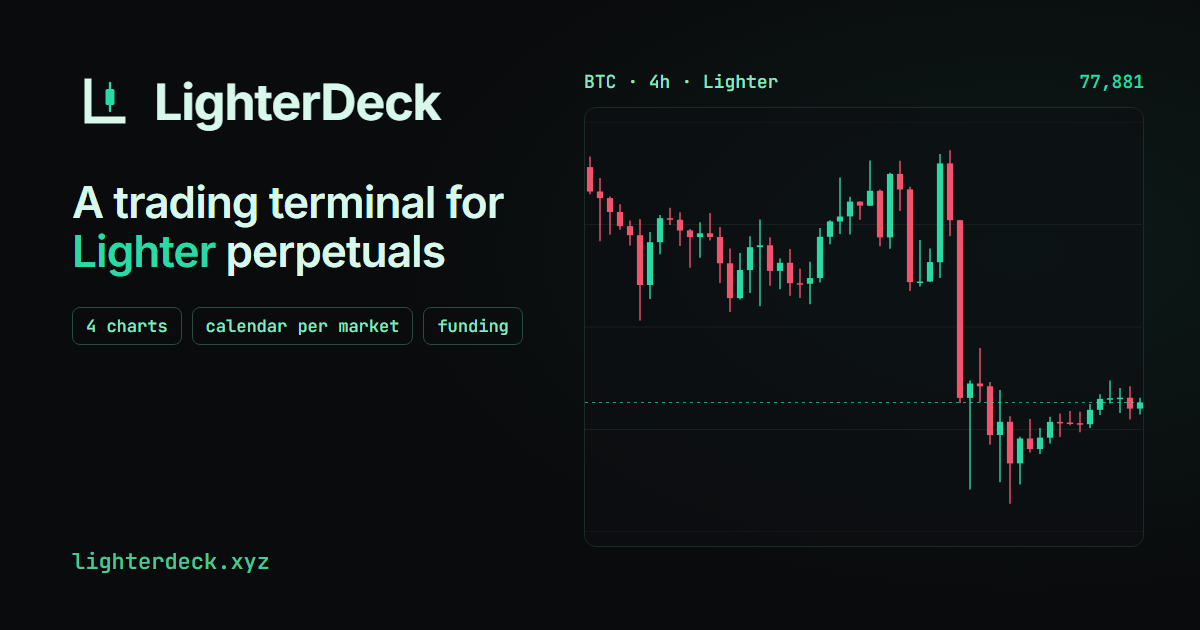
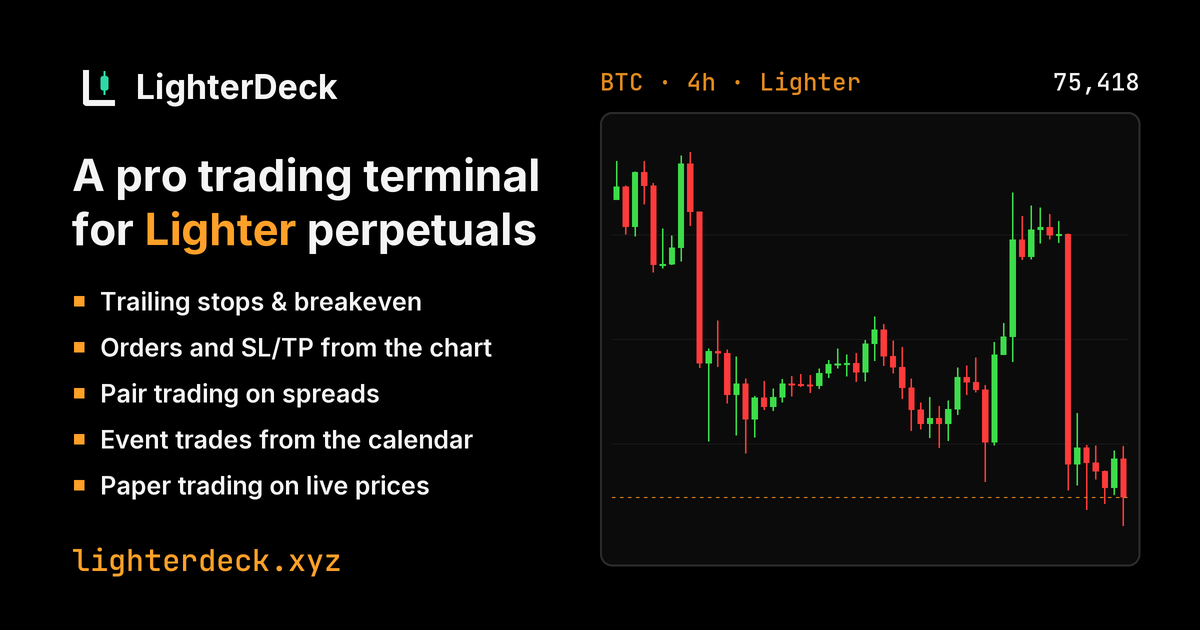
Link previews in Ambra, showing what LighterDeck does best
Both cards (the site's og.png and each market's /og/WTI.png) are drawn by
backend/og.py in the Ambra colours: black, white values, orange labels,
bright green and red candles. The site's card lists LighterDeck's strengths
in large type (trailing stops & breakeven, orders and SL/TP from the chart,
pair trading on spreads, event trades, paper trading on live prices) instead
of "4 charts · calendar per market · funding"; the page description says
the same. Market cards have bigger name, price and address. The image URLs
carry ?v=2 so social sites fetch the new ones; tools/make_og.py now renders
og.png with the same code, no browser needed.

diff --git a/frontend/index.html b/frontend/index.html
@@ -6,21 +6,21 @@
 <meta name="viewport" content="width=device-width, initial-scale=1">
 <title>LighterDeck</title>
 <!-- link previews (Discord, Telegram, X, WhatsApp…) -->
-<meta name="description" content="Every Lighter market, with the events that move it. Multi-chart, funding and a calendar per market. Free and open source.">
+<meta name="description" content="A pro trading terminal for Lighter perpetuals: trailing stops and breakeven, orders from the chart, pair trading on spreads, event trades and paper trading on live prices. Free and open source.">
 <meta name="theme-color" content="#000000">
 <meta property="og:type" content="website">
 <meta property="og:site_name" content="LighterDeck">
 <meta property="og:url" content="https://lighterdeck.xyz/">
 <meta property="og:title" content="LighterDeck · a trading terminal for Lighter">
-<meta property="og:description" content="Every Lighter market, with the events that move it. Multi-chart, funding and a calendar per market. Free and open source.">
-<meta property="og:image" content="https://lighterdeck.xyz/og.png">
+<meta property="og:description" content="A pro trading terminal for Lighter perpetuals: trailing stops and breakeven, orders from the chart, pair trading on spreads, event trades and paper trading on live prices. Free and open source.">
+<meta property="og:image" content="https://lighterdeck.xyz/og.png?v=2">
 <meta property="og:image:width" content="1200">
 <meta property="og:image:height" content="630">
-<meta property="og:image:alt" content="LighterDeck: a trading terminal for Lighter perpetuals, with a BTC chart">
+<meta property="og:image:alt" content="LighterDeck: a pro trading terminal for Lighter perpetuals, with trailing stops, chart orders, spreads, event trades and paper trading, next to a BTC chart">
 <meta name="twitter:card" content="summary_large_image">
 <meta name="twitter:title" content="LighterDeck · a trading terminal for Lighter">
-<meta name="twitter:description" content="Every Lighter market, with the events that move it. Multi-chart, funding and a calendar per market. Free and open source.">
-<meta name="twitter:image" content="https://lighterdeck.xyz/og.png">
+<meta name="twitter:description" content="A pro trading terminal for Lighter perpetuals: trailing stops and breakeven, orders from the chart, pair trading on spreads, event trades and paper trading on live prices. Free and open source.">
+<meta name="twitter:image" content="https://lighterdeck.xyz/og.png?v=2">
 <link rel="preconnect" href="https://fonts.googleapis.com">
 <link rel="preconnect" href="https://fonts.gstatic.com" crossorigin>
 <link href="https://fonts.googleapis.com/css2?family=Inter:wght@400;500;600&family=JetBrains+Mono:wght@400;500&display=swap" rel="stylesheet">

diff --git a/backend/og.py b/backend/og.py
@@ -1,6 +1,6 @@
-"""Link preview card for one market (1200x630 PNG), in the Phosphor colours of the site's own card:
-the market's name, price and 24h change on the left, its last 56 four-hour candles on the right.
-Drawn at twice the size and scaled down, so lines and text come out smooth."""
+"""Link preview cards (1200x630 PNG) in the Ambra colours: the site's own card (tools/make_og.py writes it to
+frontend/og.png) and one per market (/og/WTI.png): name, price and 24h change on the left, its last 56
+four-hour candles on the right. Drawn at twice the size and scaled down, so lines and text come out smooth."""
 from io import BytesIO
 from pathlib import Path
 
@@ -9,15 +9,25 @@ from PIL import Image, ImageDraw, ImageFont
 FONTS = Path(__file__).resolve().parent / "fonts"  # Inter and JetBrains Mono, SIL Open Font License
 S = 2
 W, H = 1200, 630
-BG = (10, 11, 13)
-PANEL = (14, 16, 18)
-TEXT = (216, 248, 235)
-TEXT2 = (135, 232, 193)
-MUTED = (77, 199, 150)
-LINE = (27, 42, 36)
-GRID = (22, 33, 28)
-GREEN = (43, 217, 164)
-RED = (242, 84, 109)
+BG = (0, 0, 0)
+PANEL = (11, 11, 11)
+TEXT = (244, 244, 244)
+ORANGE = (255, 160, 40)
+MUTED = (224, 138, 31)
+LINE = (44, 44, 44)
+GRID = (24, 24, 24)
+GREEN = (61, 220, 74)
+RED = (255, 59, 59)
+LOGO = (43, 217, 164)  # the logo's own green, as in frontend/logo.svg
+
+# what sets LighterDeck apart, for the site's card
+STRENGTHS = [
+    "Trailing stops & breakeven",
+    "Orders and SL/TP from the chart",
+    "Pair trading on spreads",
+    "Event trades from the calendar",
+    "Paper trading on live prices",
+]
 
 
 def _font(name, size):
@@ -31,55 +41,89 @@ def _fit(draw, text, name, size, max_width):
     return _font(name, size)
 
 
-def card(symbol, name, price, change_pct, bars, url):
-    img = Image.new("RGB", (W * S, H * S), BG)
-    d = ImageDraw.Draw(img)
-    p = lambda x, y: (x * S, y * S)
+def _p(x, y):
+    return x * S, y * S
 
-    # logo and brand
-    ox, oy, k = 72, 64, 0.8
-    L = lambda x, y: p(ox + x * k, oy + y * k)
+
+def _brand(d, size=34):
+    ox, oy, k = 72, 60, 0.85
+    L = lambda x, y: _p(ox + x * k, oy + y * k)
     d.line([L(16, 12), L(16, 50), L(50, 50)], fill=TEXT, width=round(7 * k * S), joint="curve")
-    d.line([L(38, 13), L(38, 41)], fill=GREEN, width=round(2.4 * k * S))
-    d.rounded_rectangle([L(33.5, 19), L(42.5, 35)], radius=2 * S, fill=GREEN)
-    d.text(p(132, 70), "LighterDeck", font=_font("inter-700.ttf", 30), fill=TEXT)
+    d.line([L(38, 13), L(38, 41)], fill=LOGO, width=round(2.4 * k * S))
+    d.rounded_rectangle([L(33.5, 19), L(42.5, 35)], radius=2 * S, fill=LOGO)
+    d.text(_p(136, 66), "LighterDeck", font=_font("inter-700.ttf", size), fill=TEXT)
 
-    # market, price, change
-    d.text(p(72, 170), symbol, font=_fit(d, symbol, "inter-700.ttf", 100, 470), fill=TEXT)
-    if name and name != symbol:
-        d.text(p(74, 292), name[:34], font=_fit(d, name[:34], "inter-600.ttf", 26, 470), fill=MUTED)
-    if price:
-        d.text(p(72, 360), price, font=_fit(d, price, "jetbrains-mono-500.ttf", 56, 470), fill=TEXT)
-    if change_pct is not None:
-        d.text(p(74, 436), f"{'+' if change_pct >= 0 else '−'}{abs(change_pct):.2f}%  24h",
-               font=_font("jetbrains-mono-500.ttf", 28), fill=GREEN if change_pct >= 0 else RED)
-    d.text(p(72, 552), url, font=_font("jetbrains-mono-500.ttf", 22), fill=MUTED)
 
-    # chart
-    fx0, fy0, fx1, fy1 = 600, 108, 1140, 566
-    d.text(p(fx0, 70), f"{symbol} · 4h · Lighter", font=_font("jetbrains-mono-500.ttf", 18), fill=TEXT2)
-    d.rounded_rectangle([p(fx0, fy0), p(fx1, fy1)], radius=12 * S, fill=PANEL, outline=LINE, width=2 * S)
-    if len(bars) >= 2:
-        cx0, cy0, cx1, cy1 = fx0 + 12, fy0 + 18, fx1 - 12, fy1 - 18
-        lo, hi = min(b["low"] for b in bars), max(b["high"] for b in bars)
-        pad = (hi - lo) * 0.06 or hi * 0.01 or 1
-        lo, hi = lo - pad, hi + pad
-        y = lambda v: cy1 - (v - lo) / (hi - lo) * (cy1 - cy0)
-        for i in range(1, 4):
-            gy = cy0 + (cy1 - cy0) * i / 4
-            d.line([p(cx0, gy), p(cx1, gy)], fill=GRID, width=S)
-        step = (cx1 - cx0) / len(bars)
-        body = max(3.0, step * 0.62)
-        for i, b in enumerate(bars):
-            col = GREEN if b["close"] >= b["open"] else RED
-            x = cx0 + i * step + step / 2
-            d.line([p(x, y(b["high"])), p(x, y(b["low"]))], fill=col, width=max(2, round(1.4 * S)))
-            top, bot = y(max(b["open"], b["close"])), y(min(b["open"], b["close"]))
-            d.rectangle([p(x - body / 2, top), p(x + body / 2, max(bot, top + 1.5))], fill=col)
-        last = y(bars[-1]["close"])
-        for gx in range(int(cx0), int(cx1), 8):  # dashed last-price line
-            d.line([p(gx, last), p(min(gx + 3, cx1), last)], fill=MUTED, width=S)
+def _chart(d, symbol, bars, right_label=""):
+    fx0, fy0, fx1, fy1 = 600, 112, 1140, 566
+    tag = _font("jetbrains-mono-500.ttf", 24)
+    d.text(_p(fx0, 66), f"{symbol} · 4h · Lighter", font=tag, fill=MUTED)
+    if right_label:
+        d.text(_p(fx1, 66), right_label, font=tag, fill=TEXT, anchor="ra")
+    d.rounded_rectangle([_p(fx0, fy0), _p(fx1, fy1)], radius=12 * S, fill=PANEL, outline=LINE, width=2 * S)
+    if len(bars) < 2:
+        return
+    cx0, cy0, cx1, cy1 = fx0 + 12, fy0 + 18, fx1 - 12, fy1 - 18
+    lo, hi = min(b["low"] for b in bars), max(b["high"] for b in bars)
+    pad = (hi - lo) * 0.06 or hi * 0.01 or 1
+    lo, hi = lo - pad, hi + pad
+    y = lambda v: cy1 - (v - lo) / (hi - lo) * (cy1 - cy0)
+    for i in range(1, 4):
+        gy = cy0 + (cy1 - cy0) * i / 4
+        d.line([_p(cx0, gy), _p(cx1, gy)], fill=GRID, width=S)
+    step = (cx1 - cx0) / len(bars)
+    body = max(3.0, step * 0.62)
+    for i, b in enumerate(bars):
+        col = GREEN if b["close"] >= b["open"] else RED
+        x = cx0 + i * step + step / 2
+        d.line([_p(x, y(b["high"])), _p(x, y(b["low"]))], fill=col, width=max(2, round(1.4 * S)))
+        top, bot = y(max(b["open"], b["close"])), y(min(b["open"], b["close"]))
+        d.rectangle([_p(x - body / 2, top), _p(x + body / 2, max(bot, top + 1.5))], fill=col)
+    last = y(bars[-1]["close"])
+    for gx in range(int(cx0), int(cx1), 8):  # dashed last-price line
+        d.line([_p(gx, last), _p(min(gx + 3, cx1), last)], fill=MUTED, width=S)
 
+
+def _png(img):
     out = BytesIO()
     img.resize((W, H), Image.LANCZOS).save(out, "PNG", optimize=True)
     return out.getvalue()
+
+
+def card(symbol, name, price, change_pct, bars, url):
+    """One market's card."""
+    img = Image.new("RGB", (W * S, H * S), BG)
+    d = ImageDraw.Draw(img)
+    _brand(d)
+    d.text(_p(72, 160), symbol, font=_fit(d, symbol, "inter-700.ttf", 104, 470), fill=TEXT)
+    if name and name != symbol:
+        d.text(_p(74, 290), name[:34], font=_fit(d, name[:34], "inter-600.ttf", 32, 470), fill=MUTED)
+    if price:
+        d.text(_p(72, 352), price, font=_fit(d, price, "jetbrains-mono-500.ttf", 64, 470), fill=TEXT)
+    if change_pct is not None:
+        d.text(_p(74, 438), f"{'+' if change_pct >= 0 else '−'}{abs(change_pct):.2f}%  24h",
+               font=_font("jetbrains-mono-500.ttf", 34), fill=GREEN if change_pct >= 0 else RED)
+    d.text(_p(72, 540), url, font=_fit(d, url, "jetbrains-mono-500.ttf", 30, 480), fill=ORANGE)
+    _chart(d, symbol, bars)
+    return _png(img)
+
+
+def site_card(bars, last_label):
+    """The site's card: what LighterDeck does best, next to a live BTC chart."""
+    img = Image.new("RGB", (W * S, H * S), BG)
+    d = ImageDraw.Draw(img)
+    _brand(d)
+    head = _font("inter-700.ttf", 44)
+    d.text(_p(72, 148), "A pro trading terminal", font=_fit(d, "A pro trading terminal", "inter-700.ttf", 44, 490), fill=TEXT)
+    x = 72 * S
+    for part, col in (("for ", TEXT), ("Lighter", ORANGE), (" perpetuals", TEXT)):
+        d.text((x, 202 * S), part, font=head, fill=col)
+        x += d.textlength(part, font=head)
+    item = _font("inter-600.ttf", 25)
+    for i, text in enumerate(STRENGTHS):
+        yy = 286 + i * 46
+        d.rectangle([_p(74, yy + 10), _p(84, yy + 20)], fill=ORANGE)
+        d.text(_p(100, yy), text, font=item, fill=TEXT)
+    d.text(_p(72, 540), "lighterdeck.xyz", font=_font("jetbrains-mono-500.ttf", 30), fill=ORANGE)
+    _chart(d, "BTC", bars, last_label)
+    return _png(img)

diff --git a/tools/make_og.py b/tools/make_og.py
@@ -1,9 +1,7 @@
-"""Link preview card (1200x630) for lighterdeck.xyz: Phosphor colours, real BTC 4h candles from Lighter.
+"""The site's link preview card (frontend/og.png, 1200x630) with real BTC 4h candles from Lighter.
 
-Writes an HTML card; render it to frontend/og.png with a headless browser, e.g.
-  python tools/make_og.py card.html
-  msedge --headless=new --hide-scrollbars --force-device-scale-factor=1 --window-size=1200,630
-         --virtual-time-budget=5000 --screenshot=frontend/og.png file:///.../card.html
+Drawn by backend/og.py, the same code and Ambra colours as each market's card:
+  python tools/make_og.py
 """
 import json
 import sys
@@ -11,67 +9,15 @@ import time
 import urllib.request
 from pathlib import Path
 
-out = Path(sys.argv[1])
+ROOT = Path(__file__).resolve().parent.parent
+sys.path.insert(0, str(ROOT / "backend"))
+import og  # noqa: E402
+
 now = int(time.time())
 url = (f"https://mainnet.zklighter.elliot.ai/api/v1/candles?market_id=1&resolution=4h"
        f"&start_timestamp={now - 4 * 3600 * 70}&end_timestamp={now}&count_back=70")
 rows = json.load(urllib.request.urlopen(url, timeout=20))["c"][-56:]
-bars = [(float(c["o"]), float(c["h"]), float(c["l"]), float(c["c"])) for c in rows]
-
-W, H = 560, 410          # chart area
-lo, hi = min(b[2] for b in bars), max(b[1] for b in bars)
-pad = (hi - lo) * 0.08
-lo, hi = lo - pad, hi + pad
-y = lambda p: H - (p - lo) / (hi - lo) * H
-step = W / len(bars)
-body = max(3.0, step * 0.62)
-svg = []
-for i in range(5):  # faint grid
-    gy = H * i / 4
-    svg.append(f'<line x1="0" x2="{W}" y1="{gy:.1f}" y2="{gy:.1f}" stroke="#16211c" stroke-width="1"/>')
-for i, (o, h, l, c) in enumerate(bars):
-    x = i * step + step / 2
-    col = "#2bd9a4" if c >= o else "#f2546d"
-    top, bot = y(max(o, c)), y(min(o, c))
-    svg.append(f'<line x1="{x:.1f}" x2="{x:.1f}" y1="{y(h):.1f}" y2="{y(l):.1f}" stroke="{col}" stroke-width="1.4"/>')
-    svg.append(f'<rect x="{x - body / 2:.1f}" y="{top:.1f}" width="{body:.1f}" height="{max(1.5, bot - top):.1f}" fill="{col}"/>')
-last = bars[-1][3]
-svg.append(f'<line x1="0" x2="{W}" y1="{y(last):.1f}" y2="{y(last):.1f}" stroke="#2bd9a4" stroke-width="1" stroke-dasharray="3 4" opacity=".7"/>')
-chart = f'<svg width="{W}" height="{H}" viewBox="0 0 {W} {H}">{"".join(svg)}</svg>'
-
-html = f"""<!doctype html><html><head><meta charset="utf-8">
-<link href="https://fonts.googleapis.com/css2?family=Inter:wght@400;500;600;700&family=JetBrains+Mono:wght@400;500&display=block" rel="stylesheet">
-<style>
-  html, body {{ margin: 0; width: 1200px; height: 630px; overflow: hidden; background: #0a0b0d; }}
-  .card {{ position: relative; width: 1200px; height: 630px; display: flex; font-family: Inter, sans-serif; color: #d8f8eb;
-          background: radial-gradient(900px 500px at 85% 40%, rgba(43,217,164,.07), transparent 70%), #0a0b0d; }}
-  .left {{ width: 560px; padding: 70px 0 0 72px; display: flex; flex-direction: column; }}
-  .brand {{ display: flex; align-items: center; gap: 18px; }}
-  .brand span {{ font-size: 50px; font-weight: 700; letter-spacing: -.02em; }}
-  h1 {{ margin: 44px 0 0; font-size: 44px; line-height: 1.12; font-weight: 600; letter-spacing: -.02em; color: #d8f8eb; }}
-  h1 em {{ font-style: normal; color: #2bd9a4; }}
-  .feat {{ margin-top: 30px; display: flex; flex-wrap: wrap; gap: 10px; }}
-  .feat b {{ font: 500 17px "JetBrains Mono", monospace; color: #87e8c1; border: 1.5px solid #294c3e; border-radius: 8px; padding: 7px 13px; }}
-  .url {{ position: absolute; left: 72px; bottom: 54px; font: 500 22px "JetBrains Mono", monospace; color: #4dc796; }}
-  .right {{ position: absolute; right: 56px; top: 70px; width: 560px; }}
-  .tag {{ display: flex; justify-content: space-between; font: 500 18px "JetBrains Mono", monospace; color: #87e8c1; margin-bottom: 14px; }}
-  .tag i {{ font-style: normal; color: #2bd9a4; }}
-  .frame {{ border: 1.5px solid #1b2a24; border-radius: 12px; padding: 14px 0 10px; background: rgba(14,15,18,.6); }}
-</style></head><body><div class="card">
-  <div class="left">
-    <div class="brand">
-      <svg width="64" height="64" viewBox="0 0 64 64"><path d="M16 12V50H50" fill="none" stroke="#d8f8eb" stroke-width="7" stroke-linecap="square"/>
-        <path d="M38 13V41" stroke="#2bd9a4" stroke-width="2.4" stroke-linecap="round"/><rect x="33.5" y="19" width="9" height="16" rx="1.6" fill="#2bd9a4"/></svg>
-      <span>LighterDeck</span>
-    </div>
-    <h1>A trading terminal for <em>Lighter</em> perpetuals</h1>
-    <div class="feat"><b>4 charts</b><b>calendar per market</b><b>funding</b></div>
-  </div>
-  <div class="right">
-    <div class="tag"><span>BTC · 4h · Lighter</span><i>{last:,.0f}</i></div>
-    <div class="frame">{chart}</div>
-  </div>
-  <div class="url">lighterdeck.xyz</div>
-</div></body></html>"""
-out.write_text(html, encoding="utf-8")
-print("ok", len(bars), "bars, last", last)
+bars = [{"open": float(c["o"]), "high": float(c["h"]), "low": float(c["l"]), "close": float(c["c"])} for c in rows]
+out = ROOT / "frontend" / "og.png"
+out.write_bytes(og.site_card(bars, f"{bars[-1]['close']:,.0f}"))
+print("ok", len(bars), "bars, last", bars[-1]["close"], "->", out)

diff --git a/backend/main.py b/backend/main.py
@@ -1294,8 +1294,8 @@ async def trade_page(symbol: str):
     url = f"{config.SITE_URL}/trade/{m.symbol}"
     html = html.replace("<title>LighterDeck</title>", f"<title>{title}</title>", 1)
     for key, value in (("og:title", title), ("twitter:title", title), ("og:description", desc), ("twitter:description", desc),
-                       ("description", desc), ("og:url", url), ("og:image", f"{config.SITE_URL}/og/{m.symbol}.png"),
-                       ("twitter:image", f"{config.SITE_URL}/og/{m.symbol}.png"), ("og:image:alt", f"{m.symbol} on LighterDeck, 4h chart")):
+                       ("description", desc), ("og:url", url), ("og:image", f"{config.SITE_URL}/og/{m.symbol}.png?v=2"),
+                       ("twitter:image", f"{config.SITE_URL}/og/{m.symbol}.png?v=2"), ("og:image:alt", f"{m.symbol} on LighterDeck, 4h chart")):
         html = _set_meta(html, key, value)
     return Response(html, media_type="text/html")
 
